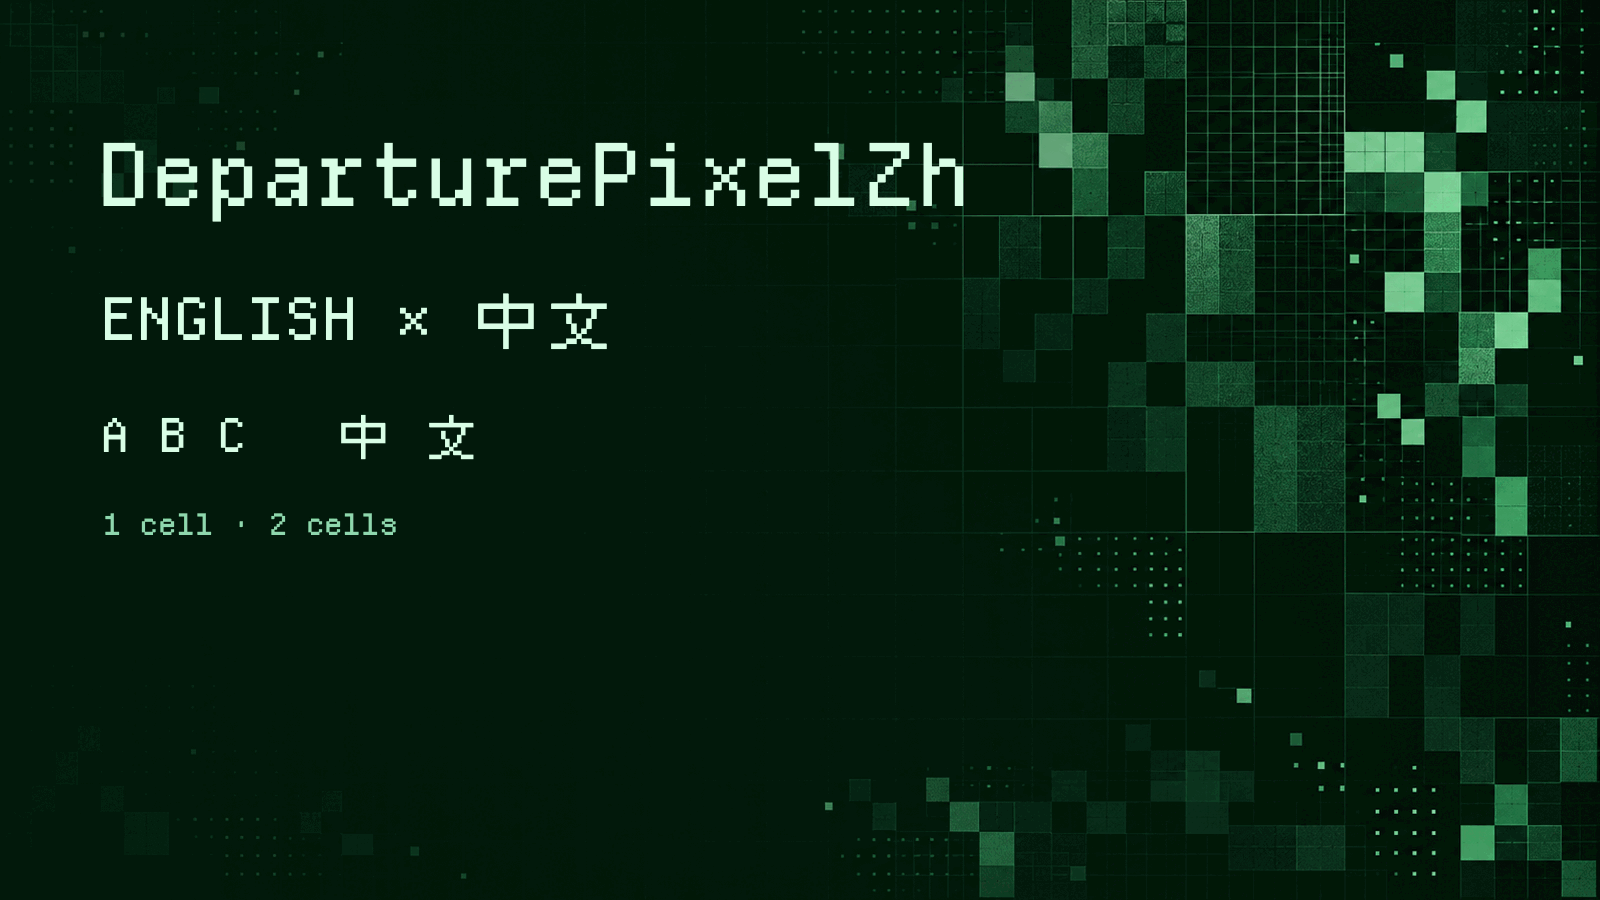
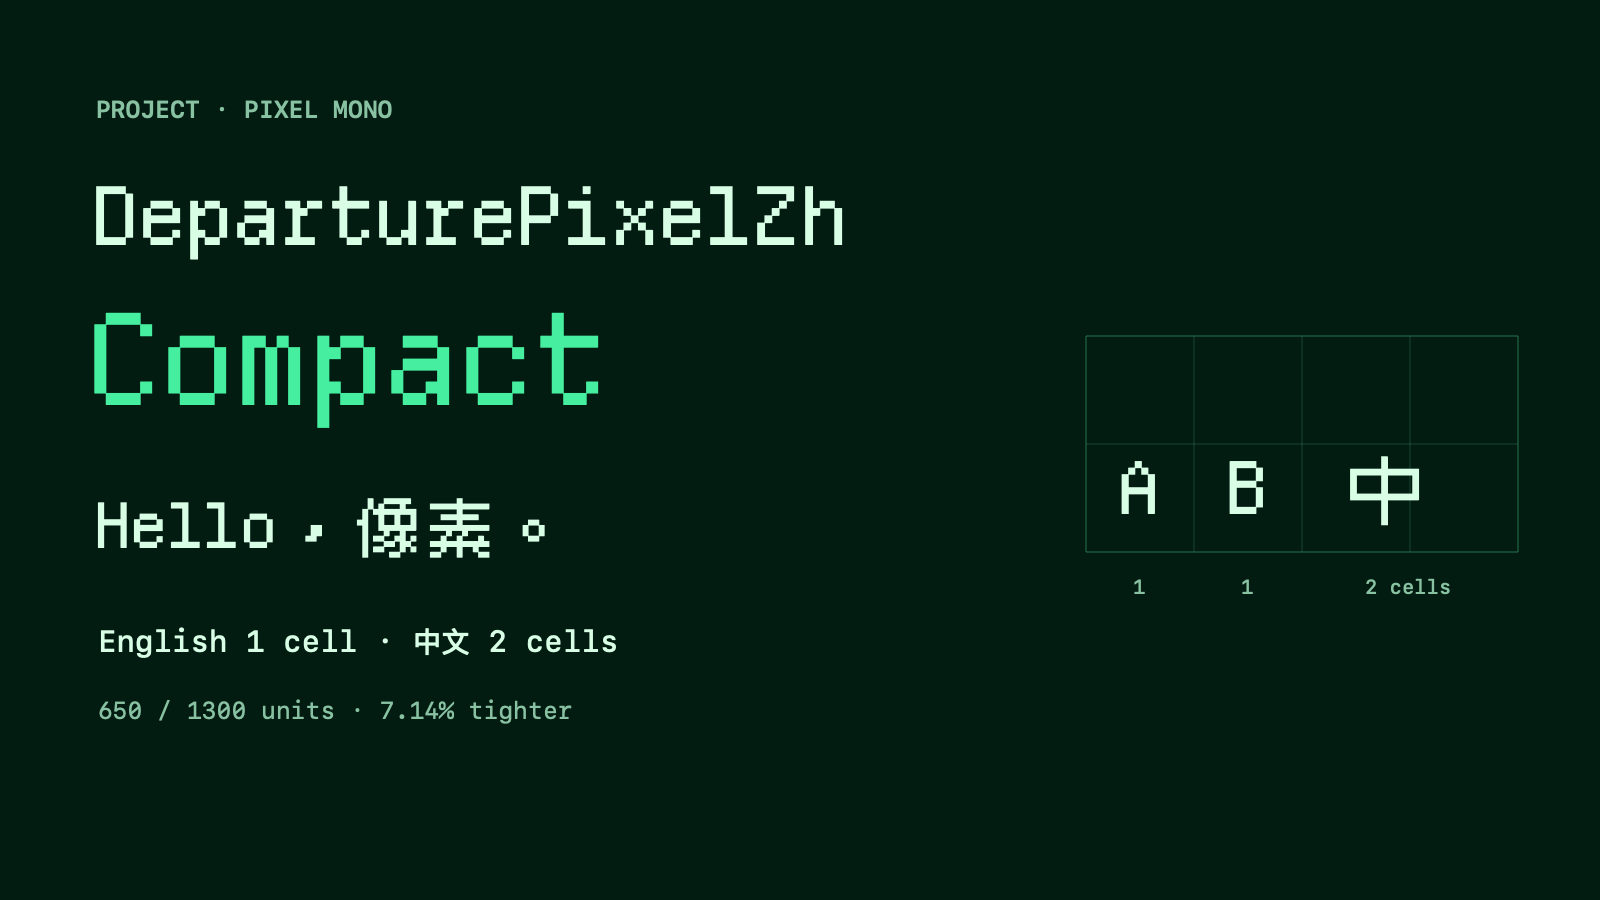
feat(font): showcase Compact glyph coverage

diff --git a/scripts/check_native.swift b/scripts/check_native.swift
@@ -7,13 +7,17 @@ let families = [
   ("DeparturePixelZh", "DeparturePixelZh", 28.0),
   ("DeparturePixelZh Compact", "DeparturePixelZhCompact", 26.0),
 ]
-let samples = [
-  "Hello，字体合奏。MWil 0123 ┌───┐",
-  "中 English 文，Café e\u{0301} q\u{0301} x\u{030C} \u{e0b0} \u{f07b} \u{f09b} \u{f0219}",
-  "😀 ❤ 👍🏽 👨👩👧👦 🇹🇼",
+let textSamples = [
+  "Hello World! MWiIl1 O0 09:41 +12.50%",
+  "繁體中文，像素同行。編輯器與終端機。",
+  "简体中文，像素同行。编辑器与终端。",
+  "，。！？「」『』（）、；：——… ┌───┐ │ A │",
+  "\u{e0b0}  \u{f07b}  \u{f09b}  \u{f0219}",
 ]
+let emojiSample = "😀 ❤ 👍🏽 🇹🇼"
 var failures = [String]()
 var checks = [[String: Any]]()
+var loadedFonts = [String: CTFont]()
 
 for (family, postscript, expectedWidth) in families {
   let file = root.appendingPathComponent("\(postscript)-Regular.ttf")
@@ -25,6 +29,7 @@ for (family, postscript, expectedWidth) in families {
     }
   }
   let font = CTFontCreateWithName("\(postscript)-Regular" as CFString, 22, nil)
+  loadedFonts[postscript] = font
   if CTFontCopyFamilyName(font) as String != family { failures.append("family \(postscript)") }
   if CTFontCopyPostScriptName(font) as String != "\(postscript)-Regular" { failures.append("PostScript \(postscript)") }
   if installed {
@@ -40,44 +45,100 @@ for (family, postscript, expectedWidth) in families {
       failures.append("advance \(postscript) \(text)")
     }
   }
-  for (index, text) in samples.enumerated() {
+  for (index, text) in textSamples.enumerated() {
     let line = CTLineCreateWithAttributedString(NSAttributedString(string: text, attributes: [.font: font]))
     let providers = (CTLineGetGlyphRuns(line) as! [CTRun]).map { run -> String in
       CTFontCopyPostScriptName((CTRunGetAttributes(run) as NSDictionary)[kCTFontAttributeName] as! CTFont) as String
     }
-    if index < 2 && providers.contains(where: { $0 != "\(postscript)-Regular" }) {
+    if providers.contains(where: { $0 != "\(postscript)-Regular" }) {
       failures.append("unexpected fallback \(postscript) sample \(index)")
     }
-    if index == 2 && !providers.contains("AppleColorEmoji") { failures.append("emoji fallback \(postscript)") }
     checks.append(["family": family, "sample": index, "providers": providers])
   }
+  let emojiLine = CTLineCreateWithAttributedString(NSAttributedString(string: emojiSample, attributes: [.font: font]))
+  let emojiProviders = (CTLineGetGlyphRuns(emojiLine) as! [CTRun]).map { run -> String in
+    CTFontCopyPostScriptName((CTRunGetAttributes(run) as NSDictionary)[kCTFontAttributeName] as! CTFont) as String
+  }
+  if !emojiProviders.contains("AppleColorEmoji") { failures.append("emoji fallback \(postscript)") }
+  checks.append(["family": family, "sample": "emoji", "providers": emojiProviders])
 }
 
-let width = 1600, height = 760
+guard let compact = loadedFonts["DeparturePixelZhCompact"],
+      let standard = loadedFonts["DeparturePixelZh"] else {
+  fputs("could not load both font variants\n", stderr)
+  exit(1)
+}
+
+let width = 1600, height = 1000
 let context = CGContext(data: nil, width: width, height: height, bitsPerComponent: 8, bytesPerRow: 0,
   space: CGColorSpaceCreateDeviceRGB(), bitmapInfo: CGImageAlphaInfo.premultipliedLast.rawValue)!
-context.setFillColor(CGColor(red: 0.96, green: 0.95, blue: 0.91, alpha: 1))
+let paper = NSColor(calibratedRed: 0.965, green: 0.949, blue: 0.902, alpha: 1)
+let ink = NSColor(calibratedRed: 0.075, green: 0.11, blue: 0.10, alpha: 1)
+let muted = NSColor(calibratedRed: 0.34, green: 0.39, blue: 0.36, alpha: 1)
+let accent = NSColor(calibratedRed: 0.06, green: 0.40, blue: 0.22, alpha: 1)
+let panel = NSColor(calibratedRed: 0.91, green: 0.90, blue: 0.85, alpha: 1)
+context.setFillColor(paper.cgColor)
 context.fill(CGRect(x: 0, y: 0, width: width, height: height))
-for (index, (family, postscript, _)) in families.enumerated() {
-  var y: CGFloat = 690
-  let x: CGFloat = index == 0 ? 60 : 830
-  let title = NSAttributedString(string: family, attributes: [.font: NSFont.systemFont(ofSize: 22), .foregroundColor: NSColor.darkGray])
-  context.textPosition = CGPoint(x: x, y: y)
-  CTLineDraw(CTLineCreateWithAttributedString(title), context)
-  y -= 55
-  for size: CGFloat in [16, 22, 28] {
-    let font = CTFontCreateWithName("\(postscript)-Regular" as CFString, size, nil)
-    for text in samples {
-      context.textPosition = CGPoint(x: x, y: y)
-      CTLineDraw(CTLineCreateWithAttributedString(NSAttributedString(string: text, attributes: [.font: font, .foregroundColor: NSColor.black])), context)
-      y -= 47
-    }
-    y -= 28
-  }
+
+func resized(_ base: CTFont, _ size: CGFloat) -> CTFont {
+  CTFontCreateCopyWithAttributes(base, size, nil, nil)
 }
-let image = NSBitmapImageRep(cgImage: context.makeImage()!)
-try image.representation(using: .png, properties: [:])!.write(to: root.appendingPathComponent("native-specimen.png"))
-let data = try JSONSerialization.data(withJSONObject: ["installed": installed, "checks": checks, "failures": failures], options: [.prettyPrinted, .sortedKeys])
+
+func draw(_ text: String, font: CTFont, at point: CGPoint, color: NSColor = ink) {
+  let value = NSAttributedString(string: text, attributes: [.font: font, .foregroundColor: color])
+  context.textPosition = point
+  CTLineDraw(CTLineCreateWithAttributedString(value), context)
+}
+
+func drawSystem(_ text: String, size: CGFloat, weight: NSFont.Weight,
+                at point: CGPoint, color: NSColor = muted) {
+  draw(text, font: NSFont.monospacedSystemFont(ofSize: size, weight: weight), at: point, color: color)
+}
+
+draw("DeparturePixelZh Compact", font: resized(compact, 54), at: CGPoint(x: 64, y: 891), color: accent)
+drawSystem("A mixed-script pixel specimen · actual macOS rendering", size: 22, weight: .medium,
+  at: CGPoint(x: 67, y: 836))
+
+let rows: [(String, String)] = [
+  ("LATIN + NUMBERS", textSamples[0]),
+  ("TRADITIONAL", textSamples[1]),
+  ("SIMPLIFIED", textSamples[2]),
+  ("PUNCTUATION + BOX", textSamples[3]),
+  ("NERD FONT SYMBOLS", textSamples[4]),
+  ("SYSTEM EMOJI FALLBACK", emojiSample),
+]
+var y: CGFloat = 755
+for (label, sample) in rows {
+  drawSystem(label, size: 17, weight: .semibold, at: CGPoint(x: 66, y: y + 19), color: muted)
+  draw(sample, font: resized(compact, label == "SYSTEM EMOJI FALLBACK" ? 38 : 36),
+    at: CGPoint(x: 310, y: y), color: ink)
+  y -= 79
+}
+
+context.setFillColor(panel.cgColor)
+context.fill(CGRect(x: 48, y: 74, width: 1504, height: 222))
+drawSystem("SAME TEXT · DIFFERENT ADVANCE", size: 15, weight: .semibold,
+  at: CGPoint(x: 70, y: 252), color: muted)
+drawSystem("STANDARD", size: 15, weight: .semibold, at: CGPoint(x: 70, y: 190), color: muted)
+draw("AA中文  MWiIl1  ┌───┐", font: resized(standard, 34), at: CGPoint(x: 250, y: 180), color: ink)
+drawSystem("700 / 1400", size: 17, weight: .medium, at: CGPoint(x: 1260, y: 184), color: muted)
+drawSystem("COMPACT", size: 15, weight: .semibold, at: CGPoint(x: 70, y: 117), color: accent)
+draw("AA中文  MWiIl1  ┌───┐", font: resized(compact, 34), at: CGPoint(x: 250, y: 107), color: ink)
+drawSystem("650 / 1300 · 7.14% tighter", size: 17, weight: .medium,
+  at: CGPoint(x: 1120, y: 111), color: accent)
+
+guard let outputImage = context.makeImage(),
+      let png = NSBitmapImageRep(cgImage: outputImage).representation(using: .png, properties: [:]) else {
+  fputs("cannot encode native specimen\n", stderr)
+  exit(1)
+}
+try png.write(to: root.appendingPathComponent("native-specimen.png"))
+let data = try JSONSerialization.data(withJSONObject: [
+  "installed": installed,
+  "checks": checks,
+  "failures": failures,
+  "specimen": ["width": width, "height": height, "focus": "DeparturePixelZh Compact"],
+], options: [.prettyPrinted, .sortedKeys])
 try data.write(to: root.appendingPathComponent("native-report.json"))
 print(String(data: data, encoding: .utf8)!)
 if !failures.isEmpty { exit(1) }

diff --git a/scripts/render_social_card.swift b/scripts/render_social_card.swift
@@ -1,23 +1,19 @@
 import AppKit
 import CoreText
 
-guard CommandLine.arguments.count == 3 else {
-  fputs("usage: swift scripts/render_social_card.swift BACKGROUND.png OUTPUT.png\n", stderr)
+guard CommandLine.arguments.count == 2 else {
+  fputs("usage: swift scripts/render_social_card.swift OUTPUT.png\n", stderr)
   exit(64)
 }
 
-let backgroundURL = URL(fileURLWithPath: CommandLine.arguments[1])
-let outputURL = URL(fileURLWithPath: CommandLine.arguments[2])
+let outputURL = URL(fileURLWithPath: CommandLine.arguments[1])
 let fontURL = URL(fileURLWithPath: #filePath)
   .deletingLastPathComponent()
   .deletingLastPathComponent()
-  .appendingPathComponent("Build/DeparturePixelZh-Regular.ttf")
+  .appendingPathComponent("Build/DeparturePixelZhCompact-Regular.ttf")
 
-guard let background = NSImage(contentsOf: backgroundURL)?.cgImage(forProposedRect: nil, context: nil, hints: nil) else {
-  fputs("cannot load background: \(backgroundURL.path)\n", stderr)
-  exit(1)
-}
-guard let provider = CGDataProvider(url: fontURL as CFURL), let cgFont = CGFont(provider) else {
+guard let provider = CGDataProvider(url: fontURL as CFURL),
+      let cgFont = CGFont(provider) else {
   fputs("cannot load font: \(fontURL.path)\n", stderr)
   exit(1)
 }
@@ -37,48 +33,85 @@ guard let context = CGContext(
   exit(1)
 }
 
-context.interpolationQuality = .high
-context.draw(background, in: CGRect(x: 0, y: 0, width: width, height: height))
+let background = NSColor(calibratedRed: 0.015, green: 0.085, blue: 0.055, alpha: 1)
+let foreground = NSColor(calibratedRed: 0.82, green: 1.0, blue: 0.88, alpha: 1)
+let accent = NSColor(calibratedRed: 0.25, green: 0.94, blue: 0.56, alpha: 1)
+let muted = NSColor(calibratedRed: 0.47, green: 0.72, blue: 0.57, alpha: 1)
+let grid = NSColor(calibratedRed: 0.17, green: 0.48, blue: 0.31, alpha: 0.38)
+context.setFillColor(background.cgColor)
+context.fill(CGRect(x: 0, y: 0, width: width, height: height))
 
-let overlay = CGGradient(
-  colorsSpace: CGColorSpaceCreateDeviceRGB(),
-  colors: [
-    NSColor(calibratedRed: 0.0, green: 0.08, blue: 0.04, alpha: 0.90).cgColor,
-    NSColor(calibratedRed: 0.0, green: 0.08, blue: 0.04, alpha: 0.42).cgColor,
-    NSColor(calibratedRed: 0.0, green: 0.08, blue: 0.04, alpha: 0.0).cgColor,
-  ] as CFArray,
-  locations: [0.0, 0.52, 1.0]
-)!
-context.drawLinearGradient(
-  overlay,
-  start: CGPoint(x: 0, y: height / 2),
-  end: CGPoint(x: width, y: height / 2),
-  options: []
-)
+let compactFace = CTFontCreateWithGraphicsFont(cgFont, 1, nil, nil)
 
-let face = CTFontCreateWithGraphicsFont(cgFont, 1, nil, nil)
-let foreground = NSColor(calibratedRed: 0.82, green: 1.0, blue: 0.88, alpha: 1.0)
-let muted = NSColor(calibratedRed: 0.50, green: 0.82, blue: 0.62, alpha: 1.0)
+func font(_ size: CGFloat) -> CTFont {
+  CTFontCreateCopyWithAttributes(compactFace, size, nil, nil)
+}
 
-func draw(_ text: String, size: CGFloat, at point: CGPoint, color: NSColor = foreground) {
-  let font = CTFontCreateCopyWithAttributes(face, size, nil, nil)
+func draw(_ text: String, size: CGFloat, at point: CGPoint,
+          color: NSColor = foreground) {
   let value = NSAttributedString(string: text, attributes: [
-    kCTFontAttributeName as NSAttributedString.Key: font,
+    kCTFontAttributeName as NSAttributedString.Key: font(size),
     kCTForegroundColorAttributeName as NSAttributedString.Key: color.cgColor,
   ])
   context.textPosition = point
   CTLineDraw(CTLineCreateWithAttributedString(value), context)
 }
 
-draw("DeparturePixelZh", size: 86, at: CGPoint(x: 96, y: 694))
-draw("ENGLISH × 中文", size: 58, at: CGPoint(x: 100, y: 560))
-draw("A B C   中 文", size: 46, at: CGPoint(x: 100, y: 448))
-draw("1 cell · 2 cells", size: 29, at: CGPoint(x: 103, y: 365), color: muted)
+func drawSystem(_ text: String, size: CGFloat, weight: NSFont.Weight,
+                at point: CGPoint, color: NSColor) {
+  let value = NSAttributedString(string: text, attributes: [
+    .font: NSFont.monospacedSystemFont(ofSize: size, weight: weight),
+    .foregroundColor: color,
+  ])
+  context.textPosition = point
+  CTLineDraw(CTLineCreateWithAttributedString(value), context)
+}
 
-guard let image = context.makeImage(), let png = NSBitmapImageRep(cgImage: image).representation(using: .png, properties: [:]) else {
+let cell: CGFloat = 108
+let gridOrigin = CGPoint(x: 1086, y: 348)
+for column in 0...4 {
+  let x = gridOrigin.x + CGFloat(column) * cell
+  context.setStrokeColor(grid.cgColor)
+  context.setLineWidth(column == 0 || column == 4 ? 2 : 1)
+  context.move(to: CGPoint(x: x, y: gridOrigin.y))
+  context.addLine(to: CGPoint(x: x, y: gridOrigin.y + 2 * cell))
+  context.strokePath()
+}
+for row in 0...2 {
+  let y = gridOrigin.y + CGFloat(row) * cell
+  context.setStrokeColor(grid.cgColor)
+  context.setLineWidth(row == 0 || row == 2 ? 2 : 1)
+  context.move(to: CGPoint(x: gridOrigin.x, y: y))
+  context.addLine(to: CGPoint(x: gridOrigin.x + 4 * cell, y: y))
+  context.strokePath()
+}
+
+drawSystem("PROJECT · PIXEL MONO", size: 24, weight: .semibold,
+  at: CGPoint(x: 96, y: 782), color: muted)
+draw("DeparturePixelZh", size: 80, at: CGPoint(x: 91, y: 655))
+draw("Compact", size: 126, at: CGPoint(x: 86, y: 495), color: accent)
+draw("Hello，像素。", size: 62, at: CGPoint(x: 94, y: 352))
+drawSystem("English 1 cell · 中文 2 cells", size: 30, weight: .medium,
+  at: CGPoint(x: 98, y: 248), color: foreground)
+drawSystem("650 / 1300 units · 7.14% tighter", size: 24, weight: .regular,
+  at: CGPoint(x: 98, y: 181), color: muted)
+
+draw("A", size: 72, at: CGPoint(x: gridOrigin.x + 31, y: gridOrigin.y + 38))
+draw("B", size: 72, at: CGPoint(x: gridOrigin.x + cell + 31, y: gridOrigin.y + 38))
+draw("中", size: 72, at: CGPoint(x: gridOrigin.x + 2 * cell + 40, y: gridOrigin.y + 38))
+drawSystem("1", size: 20, weight: .medium,
+  at: CGPoint(x: gridOrigin.x + 47, y: gridOrigin.y - 42), color: muted)
+drawSystem("1", size: 20, weight: .medium,
+  at: CGPoint(x: gridOrigin.x + cell + 47, y: gridOrigin.y - 42), color: muted)
+drawSystem("2 cells", size: 20, weight: .medium,
+  at: CGPoint(x: gridOrigin.x + 2 * cell + 63, y: gridOrigin.y - 42), color: muted)
+
+guard let image = context.makeImage(),
+      let png = NSBitmapImageRep(cgImage: image).representation(using: .png, properties: [:]) else {
   fputs("cannot encode PNG\n", stderr)
   exit(1)
 }
-try FileManager.default.createDirectory(at: outputURL.deletingLastPathComponent(), withIntermediateDirectories: true)
+try FileManager.default.createDirectory(
+  at: outputURL.deletingLastPathComponent(), withIntermediateDirectories: true)
 try png.write(to: outputURL)
-print("rendered \(outputURL.path) with \(CTFontCopyPostScriptName(face) as String)")
+print("rendered \(outputURL.path) with \(CTFontCopyPostScriptName(compactFace) as String)")

diff --git a/specimens/index.html b/specimens/index.html
@@ -10,12 +10,12 @@
 </style>
 <main class="page">
   <p>DeparturePixelZh · 0.1.0 · Regular</p>
-  <h1>Departure Mono → Cubic 11 → Nerd Fonts Symbols Mono</h1>
-  <p class="fine">One baseline, one-cell Latin, two-cell full-width characters. Emoji intentionally falls back to the platform.</p>
+  <h1>English, 中文, developer icons, and system emoji</h1>
+  <p class="fine">Edit either specimen directly. Text glyphs and developer icons come from the merged font; color emoji intentionally fall back to the platform.</p>
   <div class="grid">
-    <section class="face standard"><h2>DeparturePixelZh</h2><p class="fine">700 / 1,400 units</p><p class="sample" contenteditable="true">Hello，字体合奏。MWil 0123 ┌───┐<br>中 English 文，Café é q́ x̌    <br>😀 ❤ 👍🏽 👨👩👧👦 🇹🇼</p></section>
-    <section class="face compact"><h2>DeparturePixelZh Compact</h2><p class="fine">650 / 1,300 units · 7.14% tighter</p><p class="sample" contenteditable="true">Hello，字体合奏。MWil 0123 ┌───┐<br>中 English 文，Café é q́ x̌    <br>😀 ❤ 👍🏽 👨👩👧👦 🇹🇼</p></section>
+    <section class="face compact"><h2>DeparturePixelZh Compact</h2><p class="fine">650 / 1,300 units · about 7.14% tighter</p><p class="sample" contenteditable="true">Hello World! MWiIl1 O0 09:41 +12.50%<br>繁體中文，像素同行。編輯器與終端機。<br>简体中文，像素同行。编辑器与终端。<br>，。！？「」『』（）、；：——…<br>┌───┐ │ A │    <br>😀 ❤ 👍🏽 🇹🇼</p></section>
+    <section class="face standard"><h2>DeparturePixelZh</h2><p class="fine">700 / 1,400 units</p><p class="sample" contenteditable="true">Hello World! MWiIl1 O0 09:41 +12.50%<br>繁體中文，像素同行。編輯器與終端機。<br>简体中文，像素同行。编辑器与终端。<br>，。！？「」『』（）、；：——…<br>┌───┐ │ A │    <br>😀 ❤ 👍🏽 🇹🇼</p></section>
   </div>
   <section class="face"><h2>Outline versus advance</h2><img src="outline-and-advance.svg" alt="A Latin glyph uses one advance cell and a Chinese glyph uses two."></section>
-  <p><a href="../DeparturePixelZh-Regular.ttf">TTF</a> · <a href="../DeparturePixelZh-Regular.woff2">WOFF2</a> · <a href="../NOTICE.md">Notices</a></p>
+  <p>Compact: <a href="../DeparturePixelZhCompact-Regular.ttf">TTF</a> · <a href="../DeparturePixelZhCompact-Regular.woff2">WOFF2</a><br>Standard: <a href="../DeparturePixelZh-Regular.ttf">TTF</a> · <a href="../DeparturePixelZh-Regular.woff2">WOFF2</a> · <a href="../NOTICE.md">Notices</a></p>
 </main>
